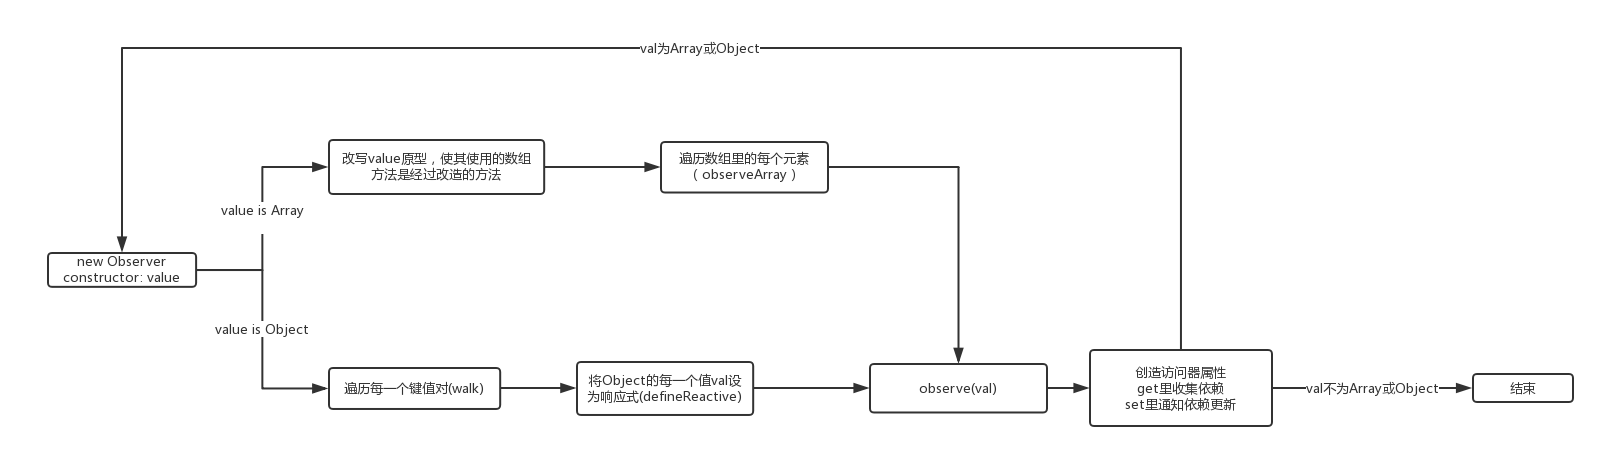
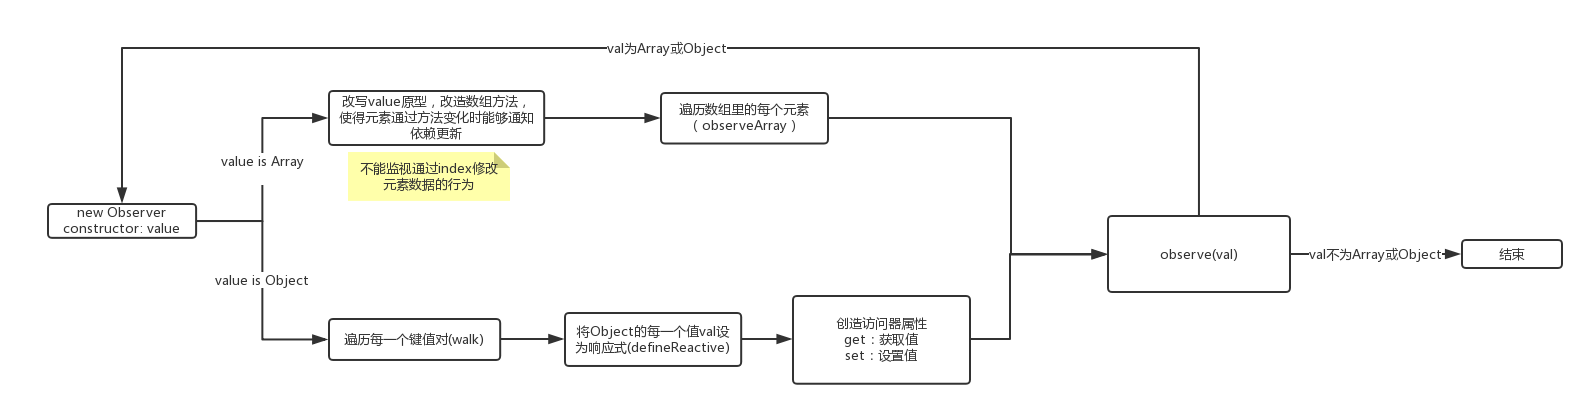
20171031

diff --git a/hexo/source/_posts/vue/study_vue_deep2.md b/hexo/source/_posts/vue/study_vue_deep2.md
@@ -1,5 +1,67 @@
 ---
-title: 深入学习vue -- core/Observer/Dep.js
+title: 深入学习vue -- core/Observer/dep.js, core/Observer/watcher.js
 tags: [study notes]
 categories: vue
 ---
+
+本次学习core/Observer/dep.js, core/Observer/watcher.js，
+
+以下简称为dep.js和watcher.js
+
+### 1、基础原理：
+
+#### a) 静态成员
+
+在早期文章[静态成员(class,static)](../ES6/static.md)中有较为详细的笔记。
+
+笔记总结如下：
+
+1. 静态成员包括静态属性和静态方法。
+2. ES2015只规定了静态方法，没有规定静态属性。ES2017有静态属性的提案。目前babel已支持转码。
+3. 静态成员是作为类的属性而存在的，它可以被子类继承，但不可以被实例继承及访问。
+4. 静态成员只能通过类名访问。
+
+在dep.js里，类Dep就有个静态属性target。在dep.js及src/core/observer/index.js都可以看到，访问target都是通过Dep.target这个类名本身去访问的，没有通过dep(dep = new Dep())去访问。
+
+在dep.js里Evan You的注释提到， target表示当前正在计算的目标watcher。target是全局唯一的，因为在任何时间都只有一个watcher会被计算。应该是出于此考虑，所以Evan You将其注册为Dep的静态属性，这样还可以全局访问（猜测，不负任何责任(●'◡'●)）。
+
+target对应的还有一个targetStack。targetStack及将一系列需要处理的target储存入栈。
+
+
+
+### 2、代码实现:
+
+
+#### a)依赖的收集和通知更新的时机
+
+Dep作为各Observer的订阅中心，里面保存着订阅该Observer变化的watcher。
+
+在两个地方会生成新的dep，一个是在Observer的constructor里，一个是在defineReactive里（代码位于core/observer/index.js）。
+
+所有的响应式数据总会经过这两个地方之一。若数据类型为Object或者Array,那么在constructor里生成自己的dep订阅中心，其他的在defineReactive里生成自己的订阅中心。
+
+数组变化触发依赖更新写在vue改写的数组方法里(core/observer/array.js)。非数组触发依赖更新在defineReactive的set里。
+
+所有数据收集依赖的地方放在了defineReactive的get里。
+
+{% codeblock lang:js%}
+dep.depend() //添加当前Dep.target到dep的订阅名单里
+{% endcodeblock %}  
+
+刚开始我还有点疑惑，看起来数组没有进行依赖收集，因为当Observer的接收的值类型为数组时，根本不会进入defineReactive。后面仔细一看，发现后面还有一句
+{% codeblock lang:js%}
+childOb.dep.depend()
+{% endcodeblock %}   
+数组的依赖收集就是在这里，通过其父对象使用此句进行收集。因为数组永远是作为某个对象的property被访问的（最开始的数据data一定是个对象，不存在一开始访问的数据的类型就是数组这种情况）。
+
+如图所示：
+
+![](/images/vue/Observer + dep.png)
+____
+
+
+Evan You的注释：
+
+dep.js: A dep is an observable that can have multiple directives subscribing to it. 指令？？
+
+watcher.js：A watcher parses an expression, collects dependencies, and fires callback when the expression value changes. This is used for both the $watch() api and directives. 用于$watch和directives(?)。

diff --git a/hexo/source/_posts/vue/study_vue_deep1.md b/hexo/source/_posts/vue/study_vue_deep1.md
@@ -1,8 +1,12 @@
 ---
-title: 深入学习vue -- core/Observer/index.js
+title: 深入学习vue -- 如何监听data变化
 tags: [study notes]
 categories: vue
 ---
+
+本次学习core/Observer/index.js core/Observer/array.js
+
+以下简称为index.js和array.js
 
 ### 1、基础原理：
 
@@ -67,6 +71,20 @@ export const arrayMethods = Object.create(arrayProto)
 Observer简略流程图(可能并不标准)
 
 ![](/images/vue/Observer.png)
+
+### 3、总结
+
+index.js主要对传入的数据进行改造监听。它会将数据属性转化为对应的访问器属性，以达到数据成为响应式的目的。
+
+array.js主要改造Array的方法。
+
+可以看出，vue对Array和Object的处理方式是不一样的。
+
+对于Array，vue改写了它的原型，改造了它的方法。当调用改变元素数量或顺序的方法时，新增元素能够被监听并且通知依赖它的数据等能够更新。
+
+对于Object，vue将遍历它的property并且将可修改的属性转化为访问器属性，因此在访问该属性值时可以设置依赖等，在设置该属性值时可以触发依赖更新。如果property的值为Object,那么将继续observe该property的值。
+
+这是data能够成为响应式的基础。
 
 ### 参考资料：
 1. [vue早期版本](https://github.com/vuejs/vue/tree/706c67d1d013577fdbfab258bca78557419cba7c)

diff --git a/hexo/source/_posts/vue/how_to_study_vue_deep.md b/hexo/source/_posts/vue/how_to_study_vue_deep.md
@@ -1,5 +1,5 @@
 ---
-title: 该如何学习vue源码
+title: vue源码学习日记
 tags: [study notes]
 categories: vue
 ---
@@ -19,4 +19,15 @@ vue/core下的文件大多包含了一个大类，我想尝试先把每个大类
 
 撸起袖子就是干。(ง •_•)ง
 
+
+### 2017/10/30
+
+18号的方案是有效的。继续用。
+
+
+### 2017/10/31
+
+今天在学习dep.js时，反反复复的忽视了几次Dep的静态变量。从读源码开始就一直想搞明白Dep.target是啥，不明白它的调用方式以及用途。看见时仅仅只知道它是静态变量，却没有想到去深究这个静态变量的语法和特性。还是今天突然想起去看一眼之前做过的关于静态变量的笔记，才恍然大悟。
+
+这说明一是我对原来学习过的东西印象不够深刻，二是我看见没有掌握的东西竟然没有想到去深究它。大误。
 
